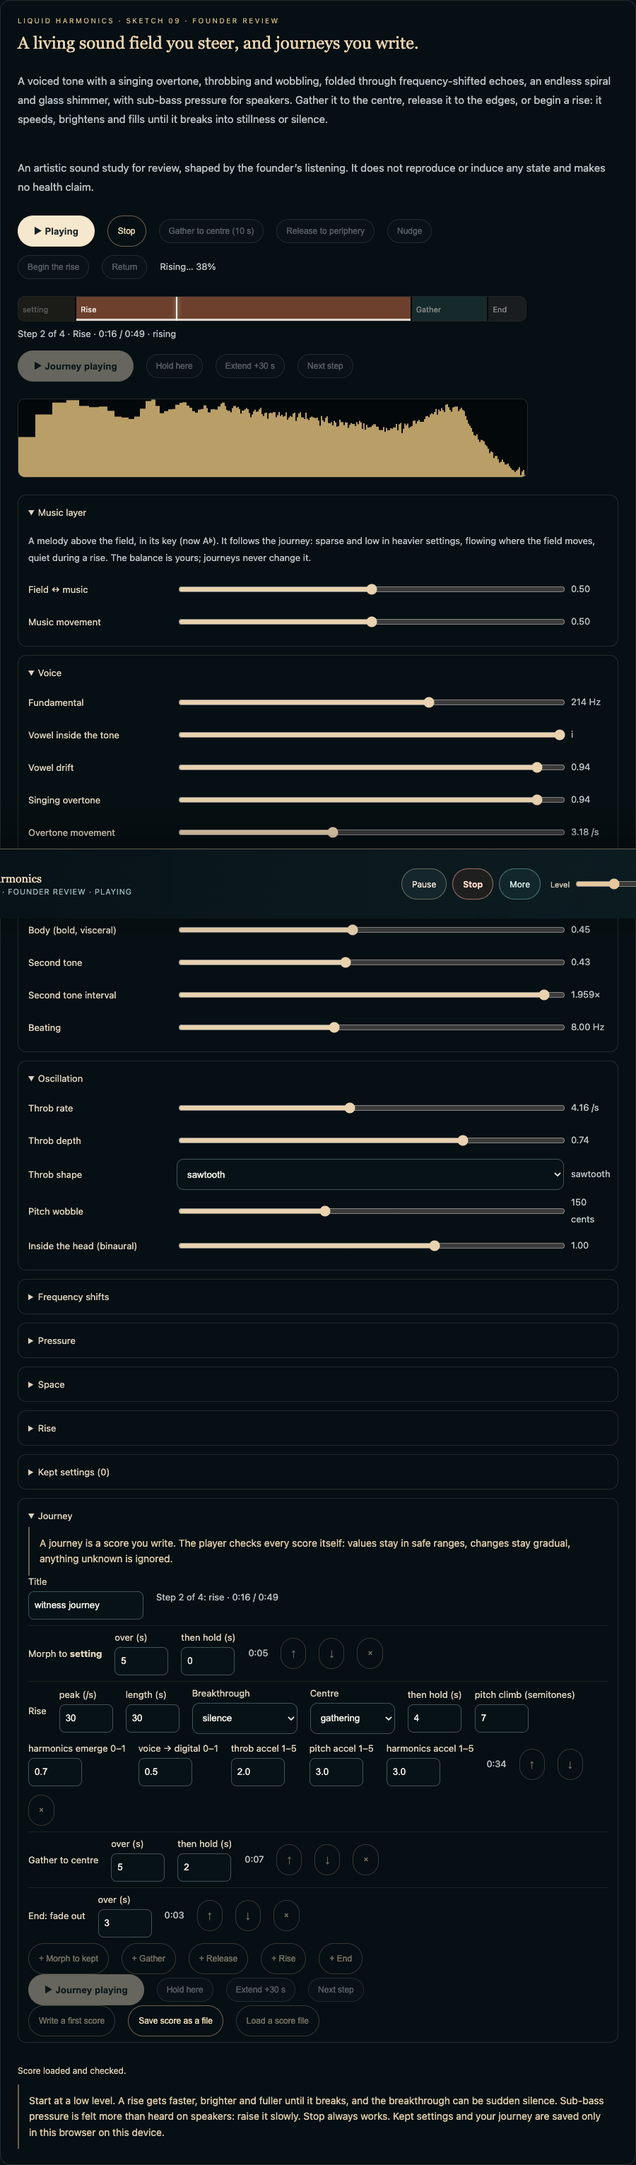
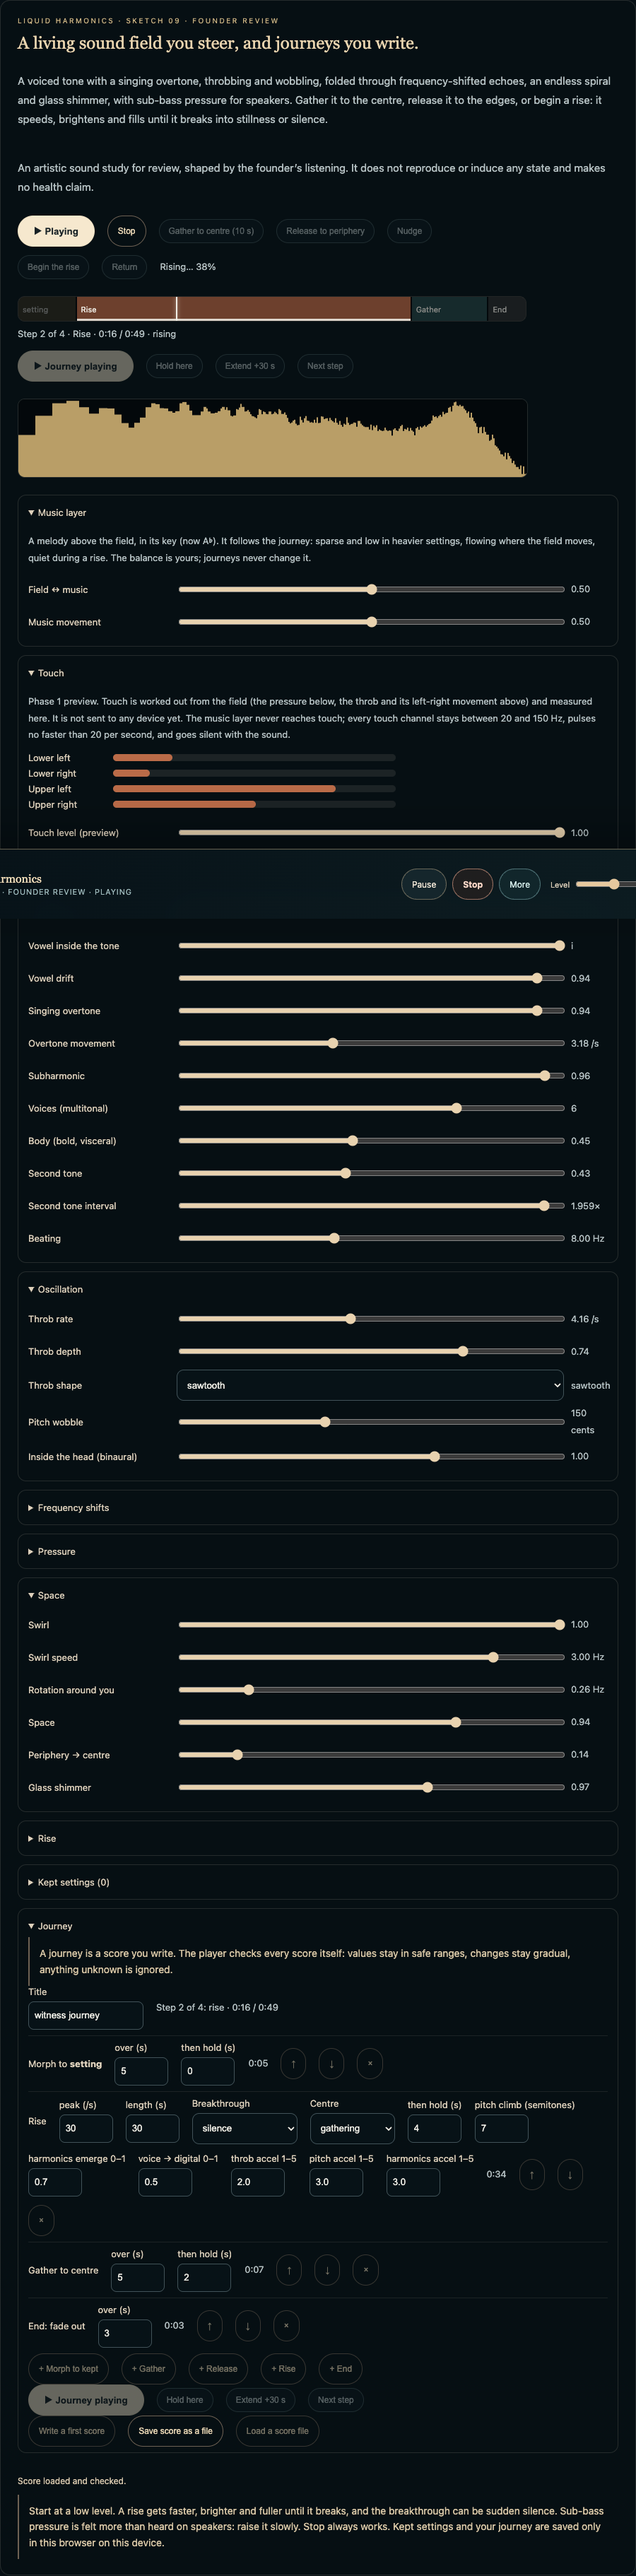
LISTEN-01: Liquid Harmonics touch Phase 1 - four computed tactile channels, preview only (review-only)
Founder: 'Yes, start Phase 1' (Tactile Field design brief 2026-11-22).
- Touch bus derived from the field: pressure -> lower L/R; felt throb (f0 folded
  to 40-120 Hz, rate capped 20/s) -> upper L/R, following rotation; gathered = equal.
- Every channel: 20 Hz HP, 150 Hz LP, soft ceiling 0.5, LP again; shares the
  sound's presence (silence/fades/end). No path from the music layer.
- Listener-owned Touch level (default 0, ~3 s fade-in); journeys never set it.
- Desk: four touch meters. Not routed to any output or device.
- Unit 9/9, witness 12/12, typecheck gate clean.
Review branch only: no merge, deploy, flag or member-access change.

diff --git a/lib/listening/liquidHarmonics.ts b/lib/listening/liquidHarmonics.ts
@@ -10,7 +10,7 @@
 import type { ProceduralStudy, ProceduralStudyAPI, ProceduralStudyHandle } from './proceduralStudy';
 
 // ── Controls ──────────────────────────────────────────────────────────────────────────────────────────
-export type Group = 'Voice' | 'Oscillation' | 'Frequency shifts' | 'Rise' | 'Pressure' | 'Space' | 'Music';
+export type Group = 'Voice' | 'Oscillation' | 'Frequency shifts' | 'Rise' | 'Pressure' | 'Space' | 'Music' | 'Touch';
 export type Control = {
   g: Group; k: string; label: string; v: number | string;
   min?: number; max?: number; step?: number; log?: boolean; unit?: string; hint?: string;
@@ -59,6 +59,7 @@ export const CONTROLS: readonly Control[] = Object.freeze([
   { g: 'Space', k: 'center', label: 'Periphery → centre', min: 0, max: 1, v: 0.34, hint: '0: all around you. 1: gathered to one point. Or use Gather / Release.' },
   { g: 'Music', k: 'music', label: 'Field ↔ music', min: 0, max: 1, v: 0, hint: '0: the field alone. 0.5: both in full. 1: the music alone. The music stays in the key of the field and follows the journey; this balance is yours and journeys never change it.' },
   { g: 'Music', k: 'musicMove', label: 'Music movement', min: 0, max: 1, v: 0.5, hint: 'Sparse single notes ↔ flowing phrases.' },
+  { g: 'Touch', k: 'touch', label: 'Touch level (preview)', min: 0, max: 1, v: 0, hint: 'Phase 1: touch is computed and measured here, not sent to any device. Starts at 0, fades in over about 3 seconds, and journeys never change it.' },
   { g: 'Space', k: 'glass', label: 'Glass shimmer', min: 0, max: 1.5, v: 0.96, hint: 'High crystalline partials.' },
 ] as Control[]);
 
@@ -104,7 +105,7 @@ const clampN = (v: unknown, lo: number, hi: number, d: number) => { const n = Nu
 export function cleanParams(src: unknown, withRise = false): Params {
   const s = (src && typeof src === 'object' ? src : {}) as Record<string, unknown>, out: Params = {};
   for (const c of CONTROLS) {
-    if ((!withRise && (c.g === 'Rise' || c.g === 'Music')) || !(c.k in s)) continue;
+    if ((!withRise && (c.g === 'Rise' || c.g === 'Music' || c.g === 'Touch')) || !(c.k in s)) continue;
     if (c.options) { if (c.options.includes(String(s[c.k]))) out[c.k] = String(s[c.k]); }
     else out[c.k] = clampN(s[c.k], c.min!, c.max!, c.v as number);
   }
@@ -143,6 +144,19 @@ export function musicDensity(P: Params, phase: string): number {
   const motion = Math.min(1, n('vowelMove') * 0.6 + n('rotate') * 2 + n('swirl') * 0.2);
   const base = (0.25 + 1.25 * n('musicMove')) * (0.6 + 0.6 * motion);
   return base * (phase === 'rising' ? 0.35 : phase === 'after' ? 0.5 : 1);
+}
+
+// ── Touch (pure, tested): four tactile channels derived from the field, never from the music ──
+// Design brief 2026-11-22 (founder: "Yes, start Phase 1"). Phase 1 computes and measures touch only; no device output.
+export const TOUCH_LIMITS = Object.freeze({ lowHz: 20, highHz: 150, maxRate: 20, ceiling: 0.5, fadeTau: 1 });
+export const TOUCH_ZONES = Object.freeze(['Lower left', 'Lower right', 'Upper left', 'Upper right']);
+/** The felt carrier: the field's fundamental folded by octaves into 40–120 Hz. */
+export function touchCarrier(f0: number): number { let f = Math.max(1, f0); while (f > 120) f /= 2; while (f < 40) f *= 2; return f; }
+/** The felt pulse follows the throb but never faster than the cap. */
+export const touchRate = (rate: number) => Math.max(0.1, Math.min(TOUCH_LIMITS.maxRate, rate));
+/** Soft ceiling: no output sample can exceed TOUCH_LIMITS.ceiling, however hot the input. */
+export function touchCurve(n = 1024): Float32Array<ArrayBuffer> {
+  const c = new Float32Array(n); for (let i = 0; i < n; i++) { const x = (i / (n - 1)) * 2 - 1; c[i] = TOUCH_LIMITS.ceiling * Math.tanh(2 * x); } return c;
 }
 
 export type MorphStep = { type: 'morph'; name: string; params: Params; seconds: number; hold: number };
@@ -232,6 +246,8 @@ export type LiquidEngine = ProceduralStudyHandle & {
   view: () => LiquidView;
   energy: () => number;
   analyser: AnalyserNode;
+  /** RMS of each touch channel (T1–T4: lower L/R, upper L/R), and the share of touch energy above 150 Hz. Phase 1 preview. */
+  touch: () => { rms: number[]; above150: number };
 };
 
 // The study's own output trim, before the player's shared level (as for Orbit & Threshold).
@@ -325,6 +341,25 @@ export function createLiquidEngine(ctx: AudioContext, destination: AudioNode, pa
   // Sub-bass pressure: mono, centred, straight to presence (the limiter still guards it).
   const pO = osc(num('pressF')), pAm = gain(0.5), pL = osc(num('pressRate')), pLd = gain(0.5); pL.connect(pLd); pLd.connect(pAm.gain);
   const pG = gain(0), pHp = biquad('highpass', 20); pO.connect(pAm); pAm.connect(pHp); pHp.connect(pG); pG.connect(fieldBus);
+  // ── Touch bus (Phase 1: measured, not sent anywhere). Sources are the pressure and a felt throb only; the music
+  // layer has no path here. Every channel: 20 Hz high-pass, 150 Hz low-pass, a soft ceiling, a second 150 Hz low-pass, then presence.
+  const tPresence = gain(0), tLevel = gain(0), tMerge = keep(ctx.createChannelMerger(4)), tSplit = keep(ctx.createChannelSplitter(4));
+  const tSrcLow = gain(0); pAm.connect(tSrcLow);                                   // pressure → lower zones
+  const tCar = osc(touchCarrier(f0)), tLfo = osc(touchRate(num('rate'))), tAm = gain(1), tDepth = gain(0);
+  tLfo.connect(tDepth); tDepth.connect(tAm.gain); tCar.connect(tAm);                // felt throb → upper zones (sine, so no steps)
+  const tSrcHigh = gain(0); tAm.connect(tSrcHigh);
+  // Left-right movement follows the field's rotation; gathered (centre 1) holds both sides equal.
+  const tPan = gain(0); rot.connect(tPan);
+  const tNeg = gain(-1); tPan.connect(tNeg);
+  const zone = (src: AudioNode, side: -1 | 1, ch: number) => {
+    const g = gain(0.5); src.connect(g); (side < 0 ? tNeg : tPan).connect(g.gain);
+    const hp = biquad('highpass', TOUCH_LIMITS.lowHz), lp1 = biquad('lowpass', TOUCH_LIMITS.highHz, 0.7), lp2 = biquad('lowpass', TOUCH_LIMITS.highHz, 0.7);
+    const ws = keep(ctx.createWaveShaper()); ws.curve = touchCurve(); ws.oversample = '2x';
+    g.connect(hp); hp.connect(lp1); lp1.connect(ws); ws.connect(lp2); lp2.connect(tMerge, 0, ch); // filter, ceiling, filter again: the ceiling's own harmonics are removed too
+  };
+  zone(tSrcLow, -1, 0); zone(tSrcLow, 1, 1); zone(tSrcHigh, -1, 2); zone(tSrcHigh, 1, 3);
+  tMerge.connect(tLevel); tLevel.connect(tPresence); tPresence.connect(tSplit);
+  const tAn = [0, 1, 2, 3].map(i => { const a = keep(ctx.createAnalyser()); a.fftSize = 2048; a.smoothingTimeConstant = 0; tSplit.connect(a, i); return a; });
   // Binaural core goes straight to presence so it stays centred.
   const binL = osc(f0 * 2), binR = osc(f0 * 2 + 7), mg = keep(ctx.createChannelMerger(2)); binL.connect(mg, 0, 0); binR.connect(mg, 0, 1);
   const binG = gain(0); mg.connect(binG); binG.connect(fieldBus);
@@ -354,6 +389,12 @@ export function createLiquidEngine(ctx: AudioContext, destination: AudioNode, pa
     set(binL.frequency, F * 2); set(binR.frequency, F * 2 + Math.min(45, rate)); set(binG.gain, num('binaural') * 0.12 * (0.6 + 0.4 * center));
     set(spG.gain, num('spiral'));
     set(pO.frequency, num('pressF')); set(pL.frequency, num('pressRate') + (rate - num('pressRate')) * num('pressLink')); set(pG.gain, num('press') * 0.6);
+    const T = TOUCH_LIMITS.fadeTau;
+    tLevel.gain.setTargetAtTime(num('touch'), t, T);
+    tSrcLow.gain.setTargetAtTime(Math.min(1, num('press')) * 0.9, t, T); tSrcHigh.gain.setTargetAtTime(0.8, t, T);
+    tCar.frequency.setTargetAtTime(touchCarrier(F), t, 0.2); tLfo.frequency.setTargetAtTime(touchRate(rate), t, 0.2);
+    tAm.gain.setTargetAtTime(1 - num('depth') / 2, t, 0.2); tDepth.gain.setTargetAtTime(num('depth') / 2, t, 0.2);
+    tPan.gain.setTargetAtTime(rotate > 0.001 ? 0.5 * (1 - center) : 0, t, 0.2);
     const bal = num('music'); set(fieldBus.gain, Math.min(1, 2 * (1 - bal))); set(musicBus.gain, Math.min(1, 2 * bal) * MUSIC_LEVEL);
     if (now) form.forEach((b, j) => b.frequency.setValueAtTime(vowelAt(num('vowel'))[j], t));
   };
@@ -363,9 +404,10 @@ export function createLiquidEngine(ctx: AudioContext, destination: AudioNode, pa
   let tween: Tween | null = null, preRise: Params | null = null, J: Journey | null = null;
   let gatherTo: number | null = null, gatherFrom = 0, gatherT0 = 0, vowelPos: number | null = null, lastStep = 0;
 
-  const fadePresence = (to: number, seconds: number) => {
-    const t = ctx.currentTime, g = presence.gain;
-    g.cancelScheduledValues(t); g.setValueAtTime(g.value, t); g.linearRampToValueAtTime(to, t + seconds);
+  // Sound and touch share one presence: silence, fades and the end apply to both together.
+  const fadePresence = (to: number, seconds: number, from?: number) => {
+    const t = ctx.currentTime;
+    for (const g of [presence.gain, tPresence.gain]) { g.cancelScheduledValues(t); g.setValueAtTime(from ?? g.value, t); g.linearRampToValueAtTime(to, t + seconds); }
   };
   const startTween = (to: Record<string, number>, dur: number, ease: (f: number) => number, done?: () => void) => {
     tween = { t0: ctx.currentTime, dur, from: Object.fromEntries(Object.keys(to).map(k => [k, num(k)])), to, ease, done };
@@ -404,7 +446,7 @@ export function createLiquidEngine(ctx: AudioContext, destination: AudioNode, pa
     J.i = i; J.s0 = ctx.currentTime; const st = J.steps[i];
     const wait = (h: number) => () => { if (J) { J.waitUntil = ctx.currentTime + h; J.next = i + 1; } };
     if (!st) { finishJourney(); return; }
-    if (silenced) { silenced = false; presence.gain.cancelScheduledValues(ctx.currentTime); presence.gain.setValueAtTime(0, ctx.currentTime); presence.gain.linearRampToValueAtTime(1, ctx.currentTime + 8); }
+    if (silenced) { silenced = false; fadePresence(1, 8, 0); }
     phase = 'journey'; note = '';
     if (st.type === 'morph') {
       const to: Record<string, number> = {};
@@ -542,6 +584,17 @@ export function createLiquidEngine(ctx: AudioContext, destination: AudioNode, pa
         journey = { i: J.i, n: J.steps.length, type: J.steps[J.i]?.type ?? '', elapsed: Math.min(total, Math.max(0, ctx.currentTime - J.t0)), stepElapsed: Math.max(0, ctx.currentTime - J.s0), total, held: J.held, ending: J.ending };
       }
       return { phase, note, centreNote, journey, music: { on: num('music') >= 0.01, key: musicKeyName(num('f0')), notes: mNotes, last: mLast } };
+    },
+    touch: () => {
+      const buf = new Float32Array(2048), fb = new Float32Array(tAn[0].frequencyBinCount);
+      let hi = 0, all = 0;
+      const rms = tAn.map(a => {
+        a.getFloatTimeDomainData(buf); let s2 = 0; for (const x of buf) s2 += x * x;
+        a.getFloatFrequencyData(fb); const bin = a.context.sampleRate / a.fftSize;
+        fb.forEach((db, i) => { const p = Math.pow(10, db / 10); all += p; if (i * bin > 150) hi += p; });
+        return Math.sqrt(s2 / buf.length);
+      });
+      return { rms, above150: all > 0 ? hi / all : 0 };
     },
     energy: () => { const b = new Uint8Array(analyser.frequencyBinCount); analyser.getByteFrequencyData(b); return b.reduce((a, x) => a + x, 0); },
     dispose: () => {

diff --git a/app/listen/LiquidHarmonicsDesk.tsx b/app/listen/LiquidHarmonicsDesk.tsx
@@ -4,7 +4,7 @@ import { useEffect, useRef, useState } from 'react';
 import { usePersistentListening } from '@/components/listening/PersistentListeningProvider';
 import {
   BREAKTHROUGHS, CONTROLS, DEFAULT_PARAMS, LIQUID_NOTES, LIQUID_STUDY_TITLE, cleanParams, cleanScore, formatValue, fromSlider,
-  liquidHarmonicsStudy, scoreSeconds, starterScore, stepSeconds, toSlider,
+  liquidHarmonicsStudy, scoreSeconds, starterScore, stepSeconds, toSlider, TOUCH_ZONES,
 } from '@/lib/listening/liquidHarmonics';
 import type { Control, LiquidEngine, LiquidView, Params, Score, Step } from '@/lib/listening/liquidHarmonics';
 import styles from './listen.module.css';
@@ -22,7 +22,7 @@ const store = (k: string, v: unknown) => { try { localStorage.setItem(k, JSON.st
 // The engine keeps running in the player when the member moves to another view, so the desk re-attaches to it.
 const shared: { engine: LiquidEngine | null; params: Params; loaded: boolean } = { engine: null, params: { ...DEFAULT_PARAMS }, loaded: false };
 
-const GROUPS = ['Music', 'Voice', 'Oscillation', 'Frequency shifts', 'Pressure', 'Space', 'Rise'] as const;
+const GROUPS = ['Music', 'Touch', 'Voice', 'Oscillation', 'Frequency shifts', 'Pressure', 'Space', 'Rise'] as const;
 const mmss = (x: number) => `${Math.floor(x / 60)}:${String(Math.floor(x % 60)).padStart(2, '0')}`;
 const stepLabel = (st: Step) => st.type === 'morph' ? st.name : st.type === 'end' ? 'End' : st.type[0].toUpperCase() + st.type.slice(1);
 
@@ -94,6 +94,7 @@ export default function LiquidHarmonicsDesk() {
   const canvas = useRef<HTMLCanvasElement>(null);
   const fileInput = useRef<HTMLInputElement>(null);
   const track = useRef<Track>(newTrack());
+  const meters = useRef<(HTMLSpanElement | null)[]>([]);
   const live = transport?.snapshot.kind === 'sketch' && transport.snapshot.title === LIQUID_STUDY_TITLE &&
     transport.snapshot.playback === 'playing';
   const P = shared.params;
@@ -113,6 +114,9 @@ export default function LiquidHarmonicsDesk() {
     const frame = (now: number) => {
       const e = shared.engine;
       if (canvas.current) drawSpectrum(canvas.current, e, bins);
+      // Touch preview meters: written straight to the DOM each frame (no re-render).
+      const tm = e ? e.touch() : { rms: [0, 0, 0, 0], above150: 0 }, tr = tm.rms;
+      meters.current.forEach((m, i) => { if (m) { const v = Math.min(1, tr[i] / 0.35); m.style.width = `${(v * 100).toFixed(1)}%`; m.dataset.rms = tr[i].toFixed(4); m.dataset.above150 = tm.above150.toFixed(4); } });
       const v = e?.view() ?? null;
       const t = track.current, jv = v?.journey;
       if (!jv) { if (t.i !== -1) track.current = newTrack(); }
@@ -251,6 +255,21 @@ export default function LiquidHarmonicsDesk() {
       {GROUPS.map(g => (
         <details className={styles.orbitDetails} key={g} open={g === 'Voice' || g === 'Music'} data-liquid-group={g}>
           <summary>{g === 'Music' ? 'Music layer' : g}</summary>
+          {g === 'Touch' && <>
+            <p className={styles.muted} data-liquid-touch-note="true">
+              Phase 1 preview. Touch is worked out from the field (the pressure below, the throb and its left-right movement above)
+              and measured here. It is not sent to any device yet. The music layer never reaches touch; every touch channel stays
+              between 20 and 150 Hz, pulses no faster than 20 per second, and goes silent with the sound.
+            </p>
+            <div className={styles.liquidTouch} aria-label="Touch preview, four zones">
+              {TOUCH_ZONES.map((z, i) => (
+                <div key={z} className={styles.liquidTouchRow}>
+                  <span>{z}</span>
+                  <span className={styles.liquidTouchTrack}><span ref={el => { meters.current[i] = el; }} className={styles.liquidTouchBar} data-liquid-touch-meter={i} /></span>
+                </div>
+              ))}
+            </div>
+          </>}
           {g === 'Music' && <p className={styles.muted} data-liquid-music-note="true">
             A melody above the field, in its key{view?.music.on ? ` (now ${view.music.key})` : ''}. It follows the journey: sparse and low in heavier
             settings, flowing where the field moves, quiet during a rise. The balance is yours; journeys never change it.

diff --git a/app/listen/listen.module.css b/app/listen/listen.module.css
@@ -230,3 +230,7 @@
 .liquidTimelineWrap p{margin:6px 0 0;font-size:13px}
 @media (prefers-reduced-motion:reduce){.liquidPlayhead{transition:none}}
 .liquidPlay:disabled,[data-liquid-harmonics] .focusChoice:disabled{opacity:.4;cursor:default}
+.liquidTouch{display:flex;flex-direction:column;gap:6px;margin:8px 0 12px;max-width:520px}
+.liquidTouchRow{display:grid;grid-template-columns:110px minmax(0,1fr);align-items:center;gap:10px;font-size:13px;color:#ddd0bb}
+.liquidTouchTrack{display:block;height:10px;border-radius:5px;background:rgba(226,216,194,.1);overflow:hidden}
+.liquidTouchBar{display:block;height:100%;width:0;border-radius:5px;background:rgba(214,120,78,.85)}

diff --git a/docs/design/contracts/sound-studio-liquid-harmonics.md b/docs/design/contracts/sound-studio-liquid-harmonics.md
@@ -46,6 +46,14 @@ experience_verification: >
     drop the music keys; it is sparser in a rise.
   - Loudness, measured on the study analyser at founder defaults: field alone about −6 dB RMS; music alone about
     −16 dB RMS, with peaks about −2 dB (after a +17 dB make-up). The felt balance is not witnessed.
+  2026-11-22 touch, Phase 1 (founder: "Yes, start Phase 1"; Tactile Field design brief):
+  - Witness 12/12: touch is zero until raised; at full level all four zones carry signal (RMS about 0.33); with the
+    music layer on, 0.11% of touch energy is above 150 Hz (the filter's slope); gathered, left and right stay equal;
+    released, the upper zones swing left and right (about −0.45 to +0.45); touch is silent at a silence
+    breakthrough; a journey leaves the touch level unchanged.
+  - Unit tests 9/9: carrier 40–120 Hz; rate cap 20/s; the curve never exceeds the 0.5 ceiling; no music node
+    connects to touch; touch is not routed to any output.
+  - Preview only. No device, transducer or body.
 ---
 
 # Sound Studio / Liquid Harmonics — Experience Contract
@@ -89,6 +97,22 @@ A melody above the field, so attention has something human to rest on while the 
   - silent in a silence breakthrough, because it runs through the same presence, limiter and fades.
 - **It is synthesized**: soft sine-and-triangle bells with their own echo and hall. There are no recordings and no second player.
 - **No claim** is made that the layering does anything. It is offered as music.
+
+## Touch (Phase 1 preview)
+
+Four touch channels are worked out from the field and measured on the desk:
+- **Lower left and right** carry the sub-bass pressure.
+- **Upper left and right** carry a felt throb (the field's fundamental folded into 40–120 Hz). It swings left and right with the rotation, and gathered it holds both sides equal.
+
+They are **not sent to any device**. That is Phase 2, a bench test with nobody on it, under the design brief. The listener's own Touch level starts at 0, fades in over about 3 seconds, and journeys never change it.
+
+Fixed in code, on every channel:
+- a 20 Hz high-pass;
+- a 150 Hz low-pass before and after a soft ceiling of 0.5;
+- a pulse rate of at most 20 per second;
+- the same presence as the sound, so silence, fades and the end apply to touch too.
+
+The music layer has no path to touch.
 
 ## Safety
 
